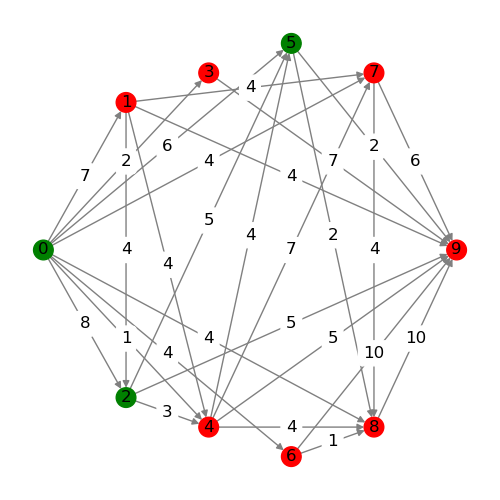
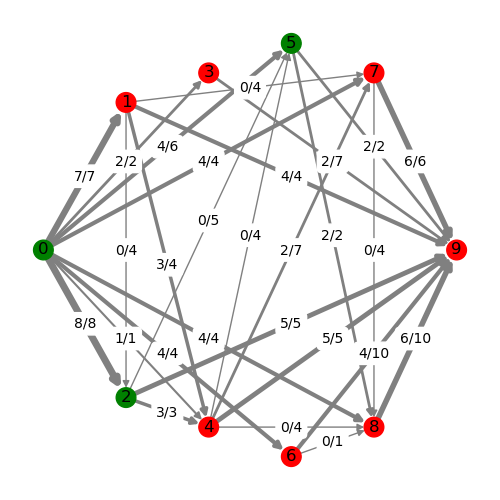
Add visualization of flow.

diff --git a/src/main.py b/src/main.py
@@ -92,8 +92,9 @@ def show_network(
     _, flow_dict = nx.maximum_flow(graph, _s=source_index, _t=drain_index, capacity="capacity")
     print(flow_dict)
     edge_labels = { (connection.start_node, connection.end_node): f"{flow_dict[connection.start_node][connection.end_node]}/{connection.capacity}" for connection in connections }
-    nx.draw(graph, pos, with_labels=True, node_color=node_colors, edge_color='gray', node_size=200, arrows=True)
-    nx.draw_networkx_edge_labels(graph, pos, edge_labels=edge_labels, font_color='black', font_size=12, rotate=False, )
+    edge_widths = [(flow_dict[s][e] / 2 + 1) for s, e in graph.edges()]
+    nx.draw(graph, pos, with_labels=True, node_color=node_colors, edge_color='gray', node_size=200, arrows=True, width=edge_widths)
+    nx.draw_networkx_edge_labels(graph, pos, edge_labels=edge_labels, font_color='black', font_size=10, rotate=False)
     plt.show()
     
 
